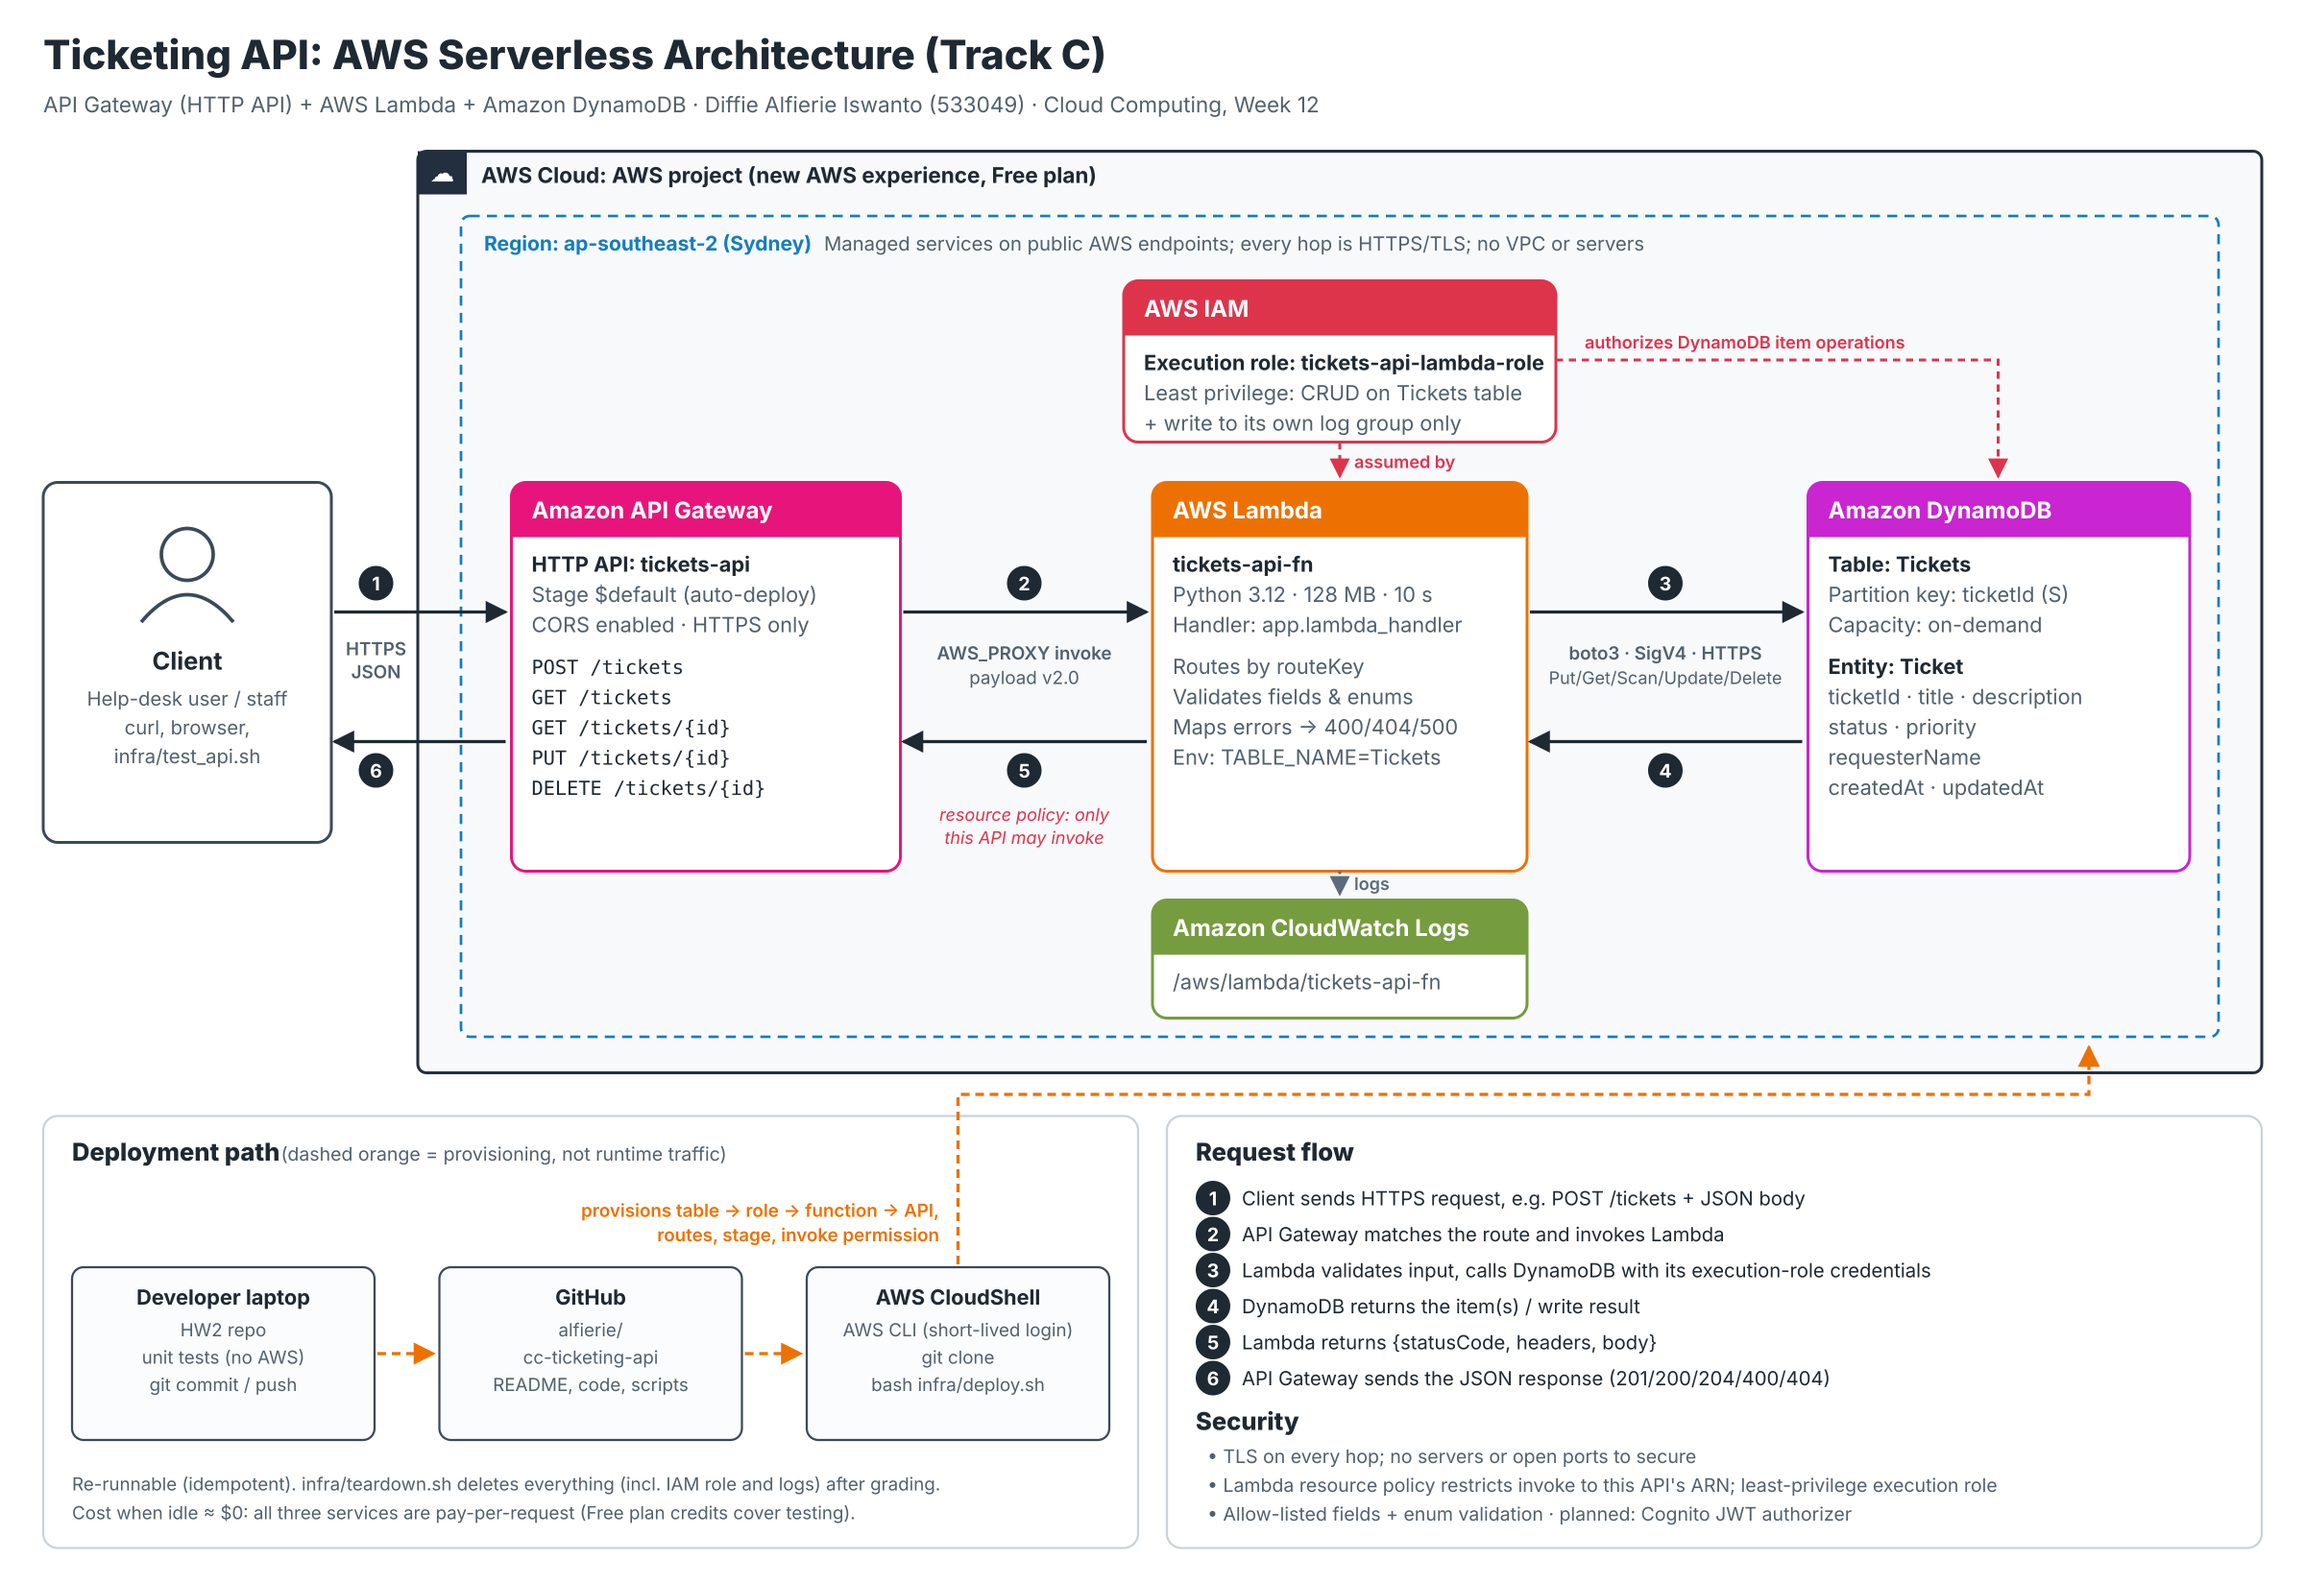
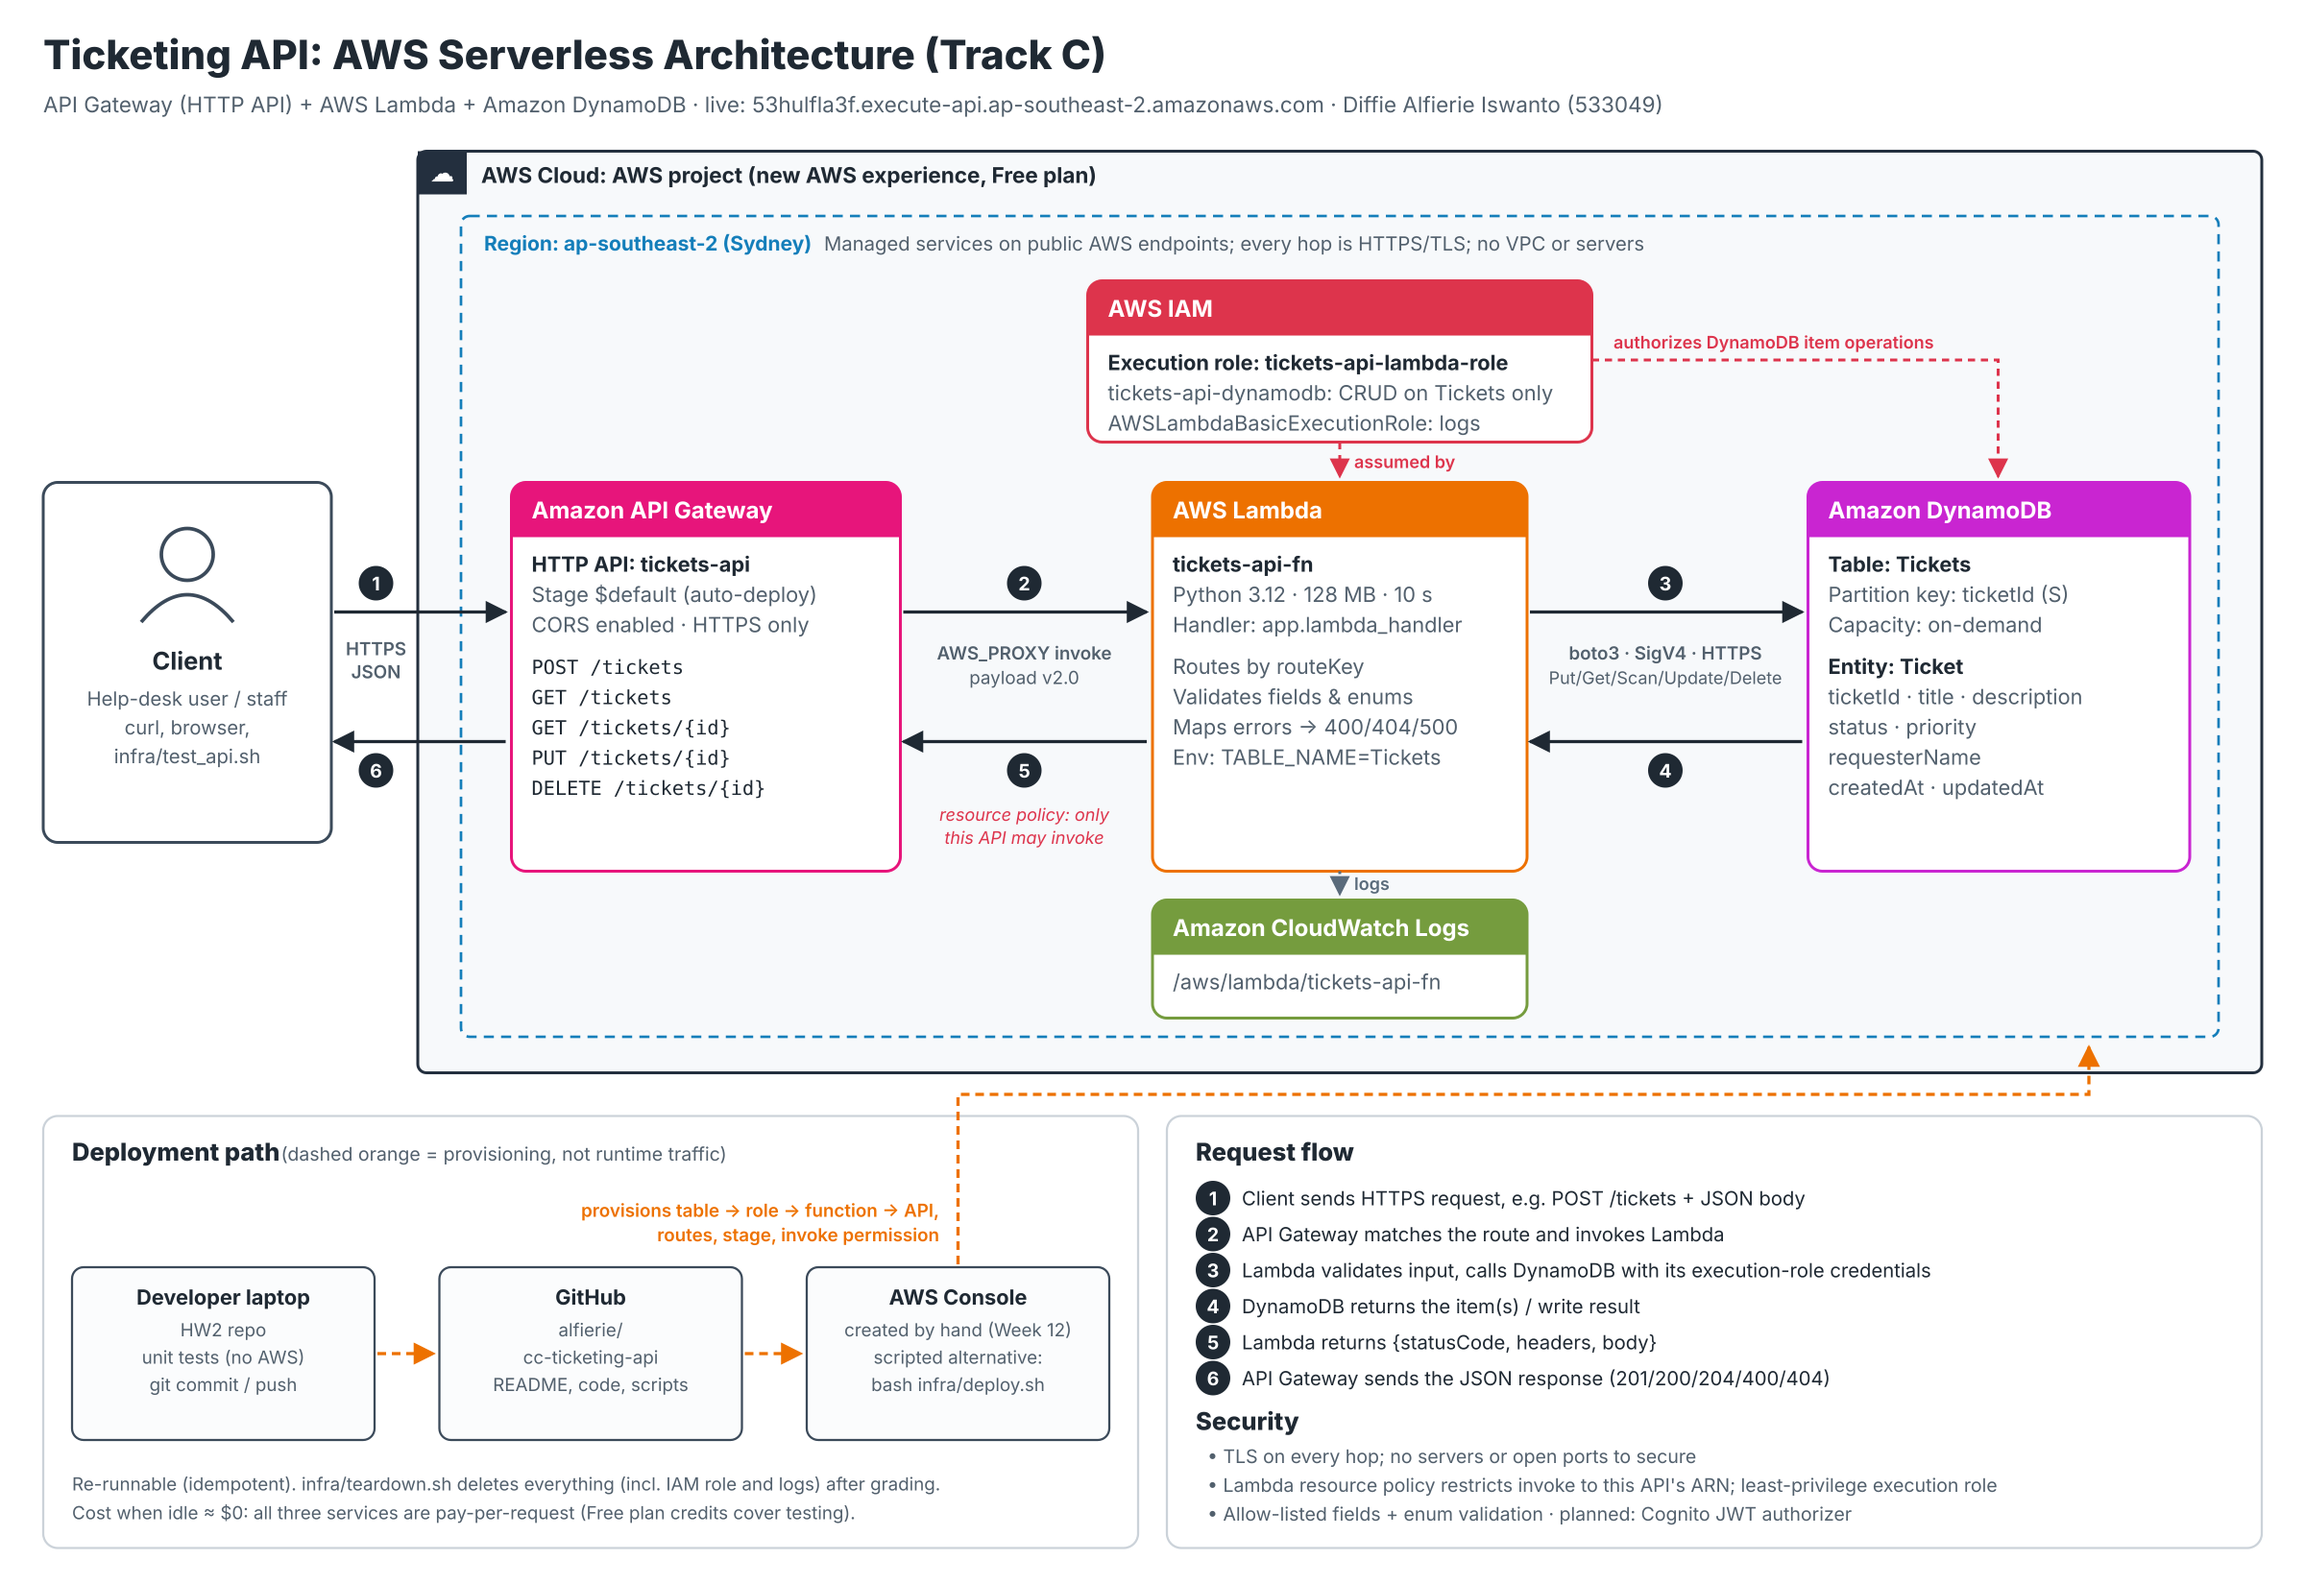
Move the function to a least-privilege role; add IAM evidence
tickets-api-fn now runs as tickets-api-lambda-role (tickets-api-dynamodb +
AWSLambdaBasicExecutionRole) instead of the console's PowerUserAccess role.

Changed region(s): [[0.4688, 0.1545, 0.8438, 0.2782], [0.3125, 0.0618, 0.7188, 0.0927], [0.375, 0.8036, 0.4688, 0.8655]]

diff --git a/docs/deployment-plan.md b/docs/deployment-plan.md
@@ -70,11 +70,15 @@ bash infra/teardown.sh     # deletes the API, function, table, log group, and IA
 CloudShell couldn't start while the new account was being verified, so everything was created in the console, all in **ap-southeast-2 (Sydney)**:
 
 1. **DynamoDB** → Create table → name `Tickets`, partition key `ticketId` (String). The name is case-sensitive: a first attempt with `ticketID` made `PutItem` fail with `ValidationException: Missing the key ticketId`, so the table was recreated.
-2. **Lambda** → Create function → Author from scratch → `tickets-api-fn`, Python 3.12, default execution role.
+2. **Lambda** → Create function → Author from scratch → `tickets-api-fn`, Python 3.12.
    Paste `src/app.py` into `lambda_function.py` → **Deploy** (the handler `lambda_function.lambda_handler` matches).
    Configuration → Environment variables: `TABLE_NAME=Tickets`; General configuration: timeout 10 s.
-3. **IAM** → the function's execution role → Add permissions → Create inline policy (JSON) → the DynamoDB statement from `infra/iam/lambda-access-policy.json` with
-   `Resource: arn:aws:dynamodb:ap-southeast-2:<account-id>:table/Tickets` → name `tickets-api-dynamodb`.
+3. **IAM**:
+   - Policies → Create policy (JSON) → the DynamoDB statement from `infra/iam/lambda-access-policy.json` with
+     `Resource: arn:aws:dynamodb:ap-southeast-2:<account-id>:table/Tickets` → name `tickets-api-dynamodb`.
+   - Roles → Create role → AWS service → Lambda → attach `tickets-api-dynamodb` + `AWSLambdaBasicExecutionRole` → name `tickets-api-lambda-role`.
+   - Lambda → Configuration → Permissions → Edit → *Use an existing role* → `tickets-api-lambda-role`.
+     (The console's default role carried the broad `PowerUserAccess` policy, so the function was moved off it.)
 4. **Lambda → Test**: event `{"routeKey": "GET /tickets"}` returns 200, and the `POST /tickets` event returns 201.
 5. **API Gateway** → Create API → HTTP API → Build → Lambda integration `tickets-api-fn` (payload 2.0) → API name `tickets-api` → routes
    `POST /tickets`, `GET /tickets`, `GET /tickets/{id}`, `PUT /tickets/{id}`, `DELETE /tickets/{id}` → stage `$default`, auto-deploy → Create.
@@ -82,7 +86,7 @@ CloudShell couldn't start while the new account was being verified, so everythin
 6. Invoke URL: **https://53hulfla3f.execute-api.ap-southeast-2.amazonaws.com**
 7. From a laptop: `bash infra/test_api.sh https://53hulfla3f.execute-api.ap-southeast-2.amazonaws.com`
 
-**Console teardown:** delete the API (API Gateway), the function (Lambda), the table (DynamoDB), the log group `/aws/lambda/tickets-api-fn` (CloudWatch), and the function's role (IAM).
+**Console teardown:** delete the API (API Gateway), the function (Lambda), the table (DynamoDB), the log group `/aws/lambda/tickets-api-fn` (CloudWatch), the role `tickets-api-lambda-role`, and the policy `tickets-api-dynamodb` (IAM).
 
 ## Roadmap after Week 12
 - Cognito user pool + JWT authorizer (only authenticated users can create or update tickets)

diff --git a/README.md b/README.md
@@ -97,8 +97,10 @@ Full walkthrough: [`docs/deployment-plan.md`](docs/deployment-plan.md). Scripted
 - **IAM:** the Lambda execution role `tickets-api-lambda-role` ([`infra/iam/`](infra/iam)) is trusted only by `lambda.amazonaws.com`.
   It can only call `dynamodb:PutItem/GetItem/Scan/UpdateItem/DeleteItem` on the `Tickets` table ARN and write to its own
   `/aws/lambda/tickets-api-fn` log group. Deployment runs from CloudShell or `aws login` sessions with short-lived credentials; no access keys are created.
-- **Console deployment:** the console created the function's execution role automatically; the DynamoDB statement from
-  `infra/iam/lambda-access-policy.json` (scoped to the `Tickets` table ARN) was added to it as the inline policy `tickets-api-dynamodb`.
+- **Console deployment:** the function runs as `tickets-api-lambda-role` (trusted by Lambda), created in the IAM console with exactly two policies:
+  the customer-managed `tickets-api-dynamodb` (the DynamoDB statement from `infra/iam/lambda-access-policy.json`, scoped to the `Tickets` table ARN)
+  and the AWS-managed `AWSLambdaBasicExecutionRole` (CloudWatch Logs only). The console's default role, which had the broad `PowerUserAccess`, is no longer used.
+  Evidence: `docs/evidence/07-lambda-execution-role.png`, `08-lambda-role-permissions.png`.
 - **Invoke permission:** a Lambda resource-based policy allows only this API's ARN (`execute-api:<api-id>/*/*`) to invoke the function.
 - **Transport:** API Gateway serves HTTPS only. Input is validated with allow-listed fields and enums before it reaches DynamoDB.
 - **Not in scope for Week 12:** authentication (planned: Amazon Cognito JWT authorizer on the HTTP API).
